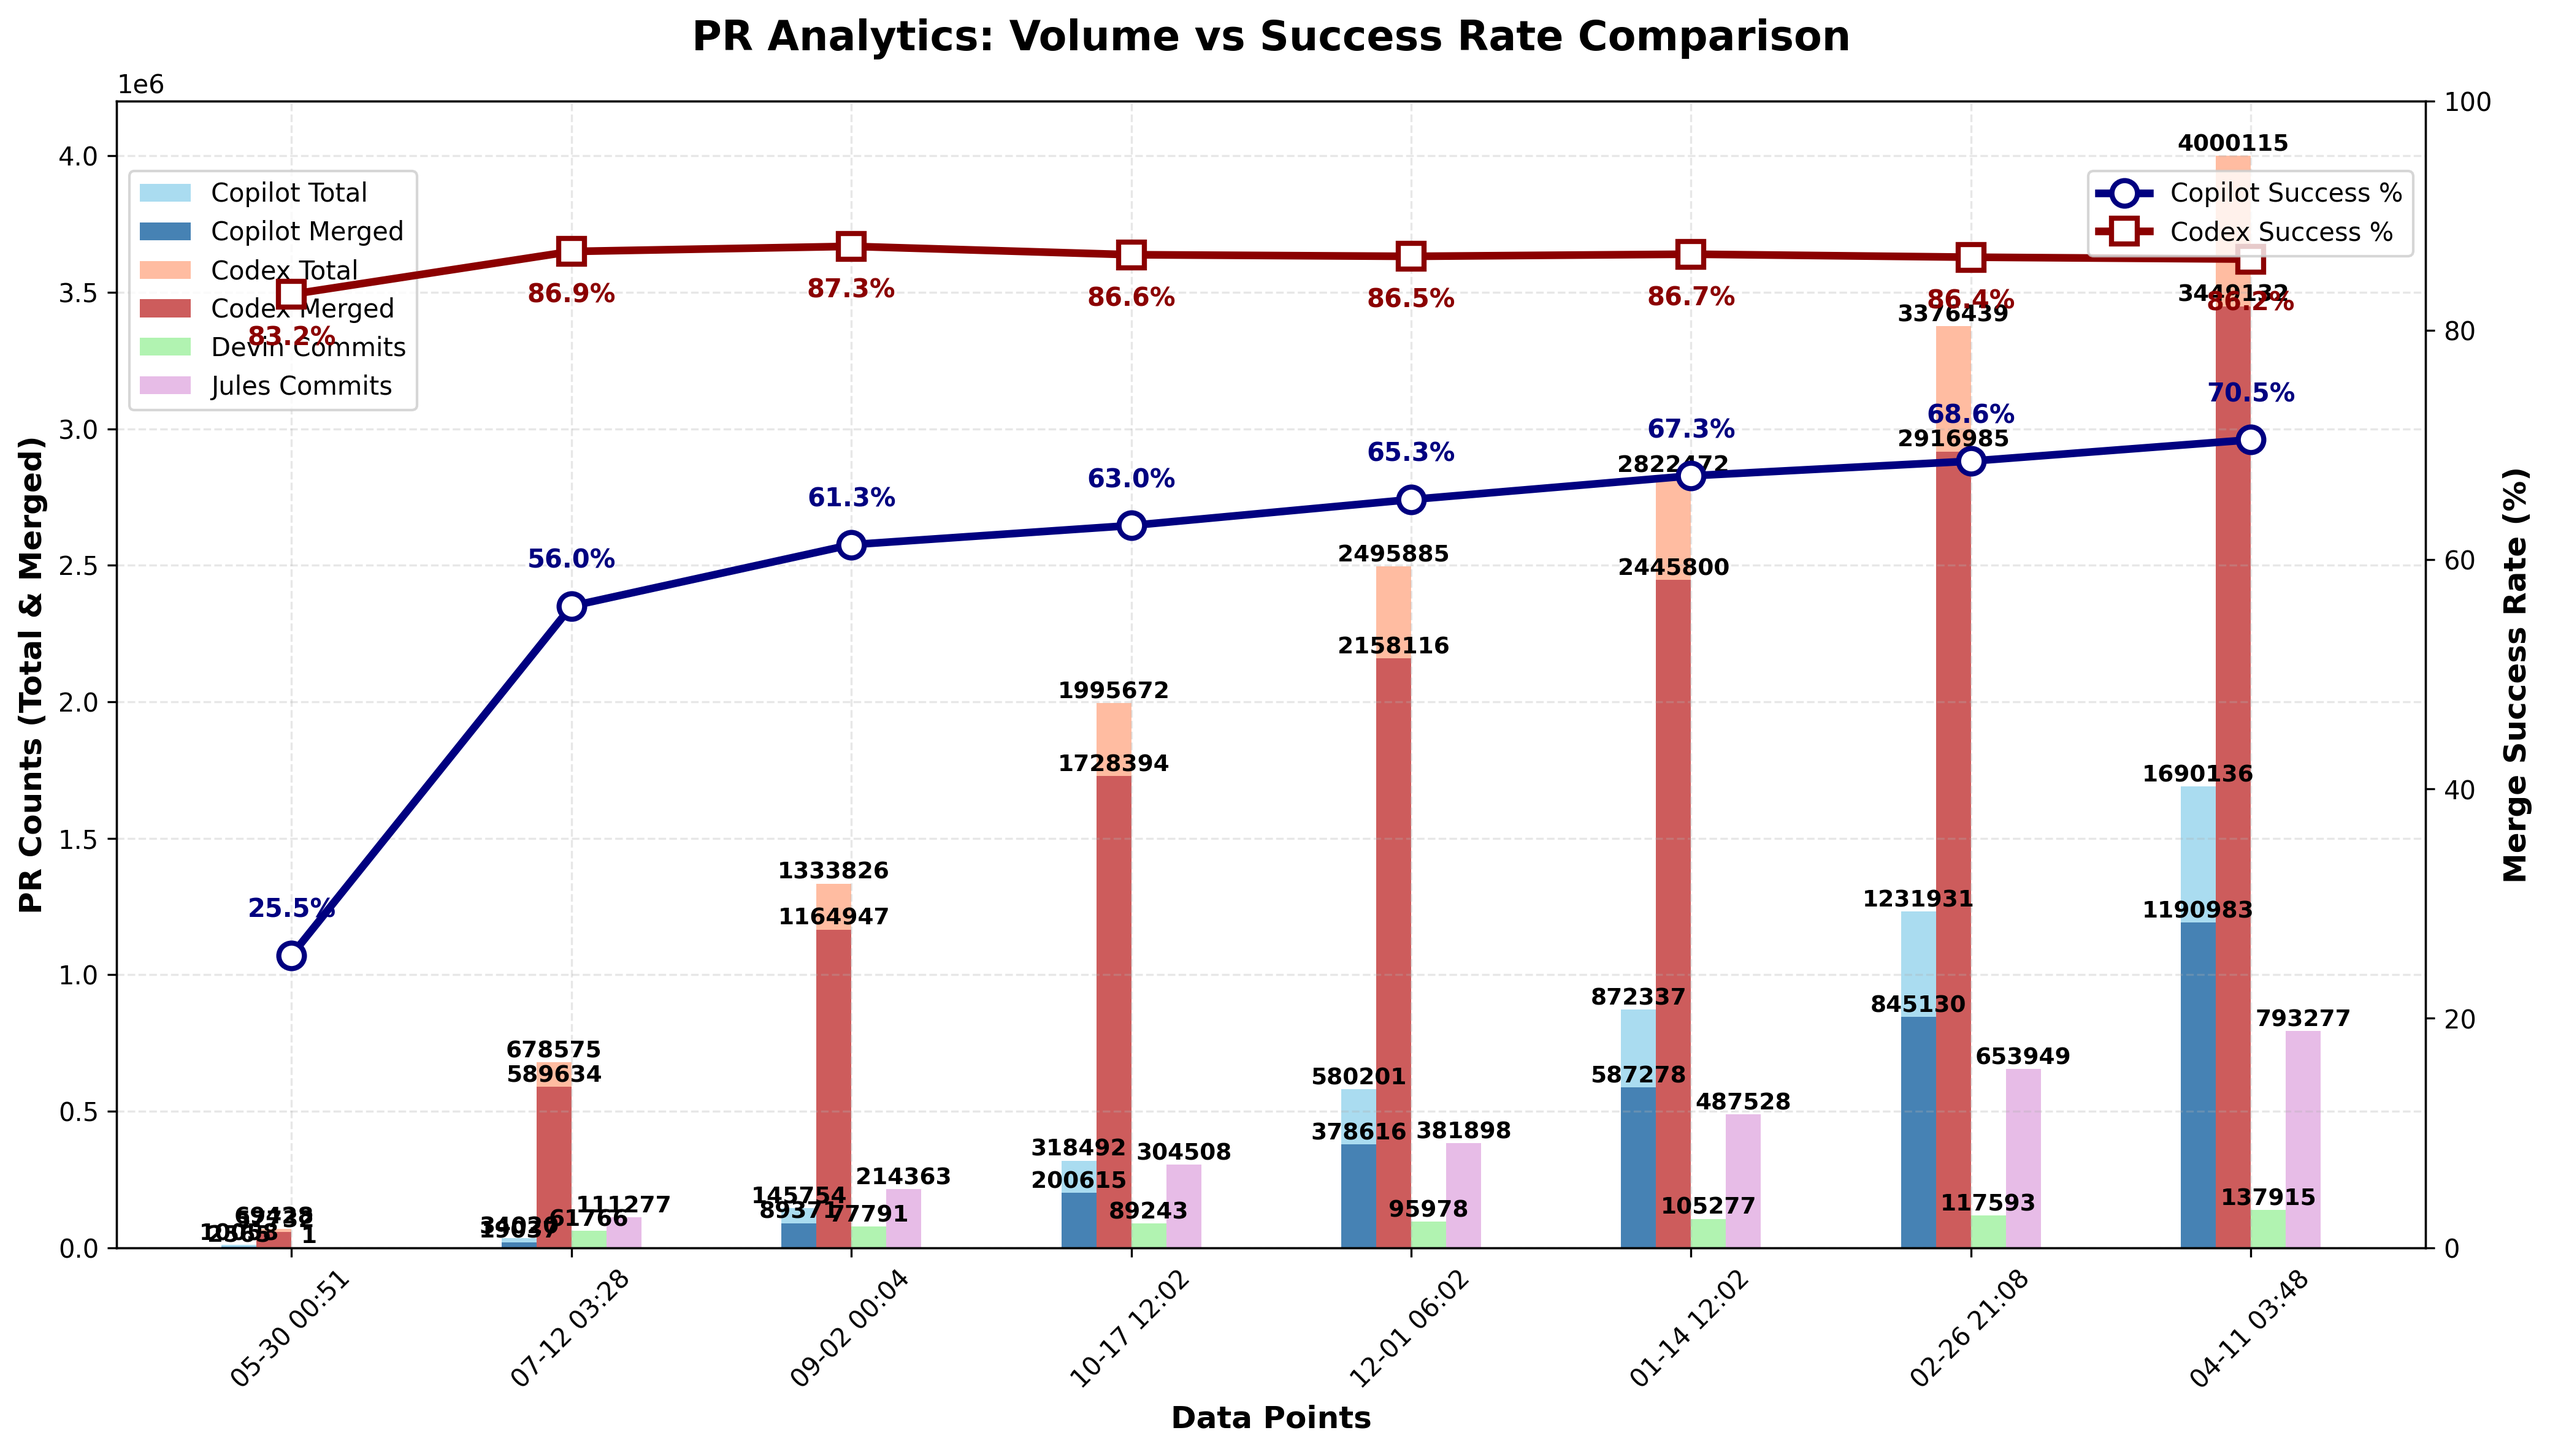
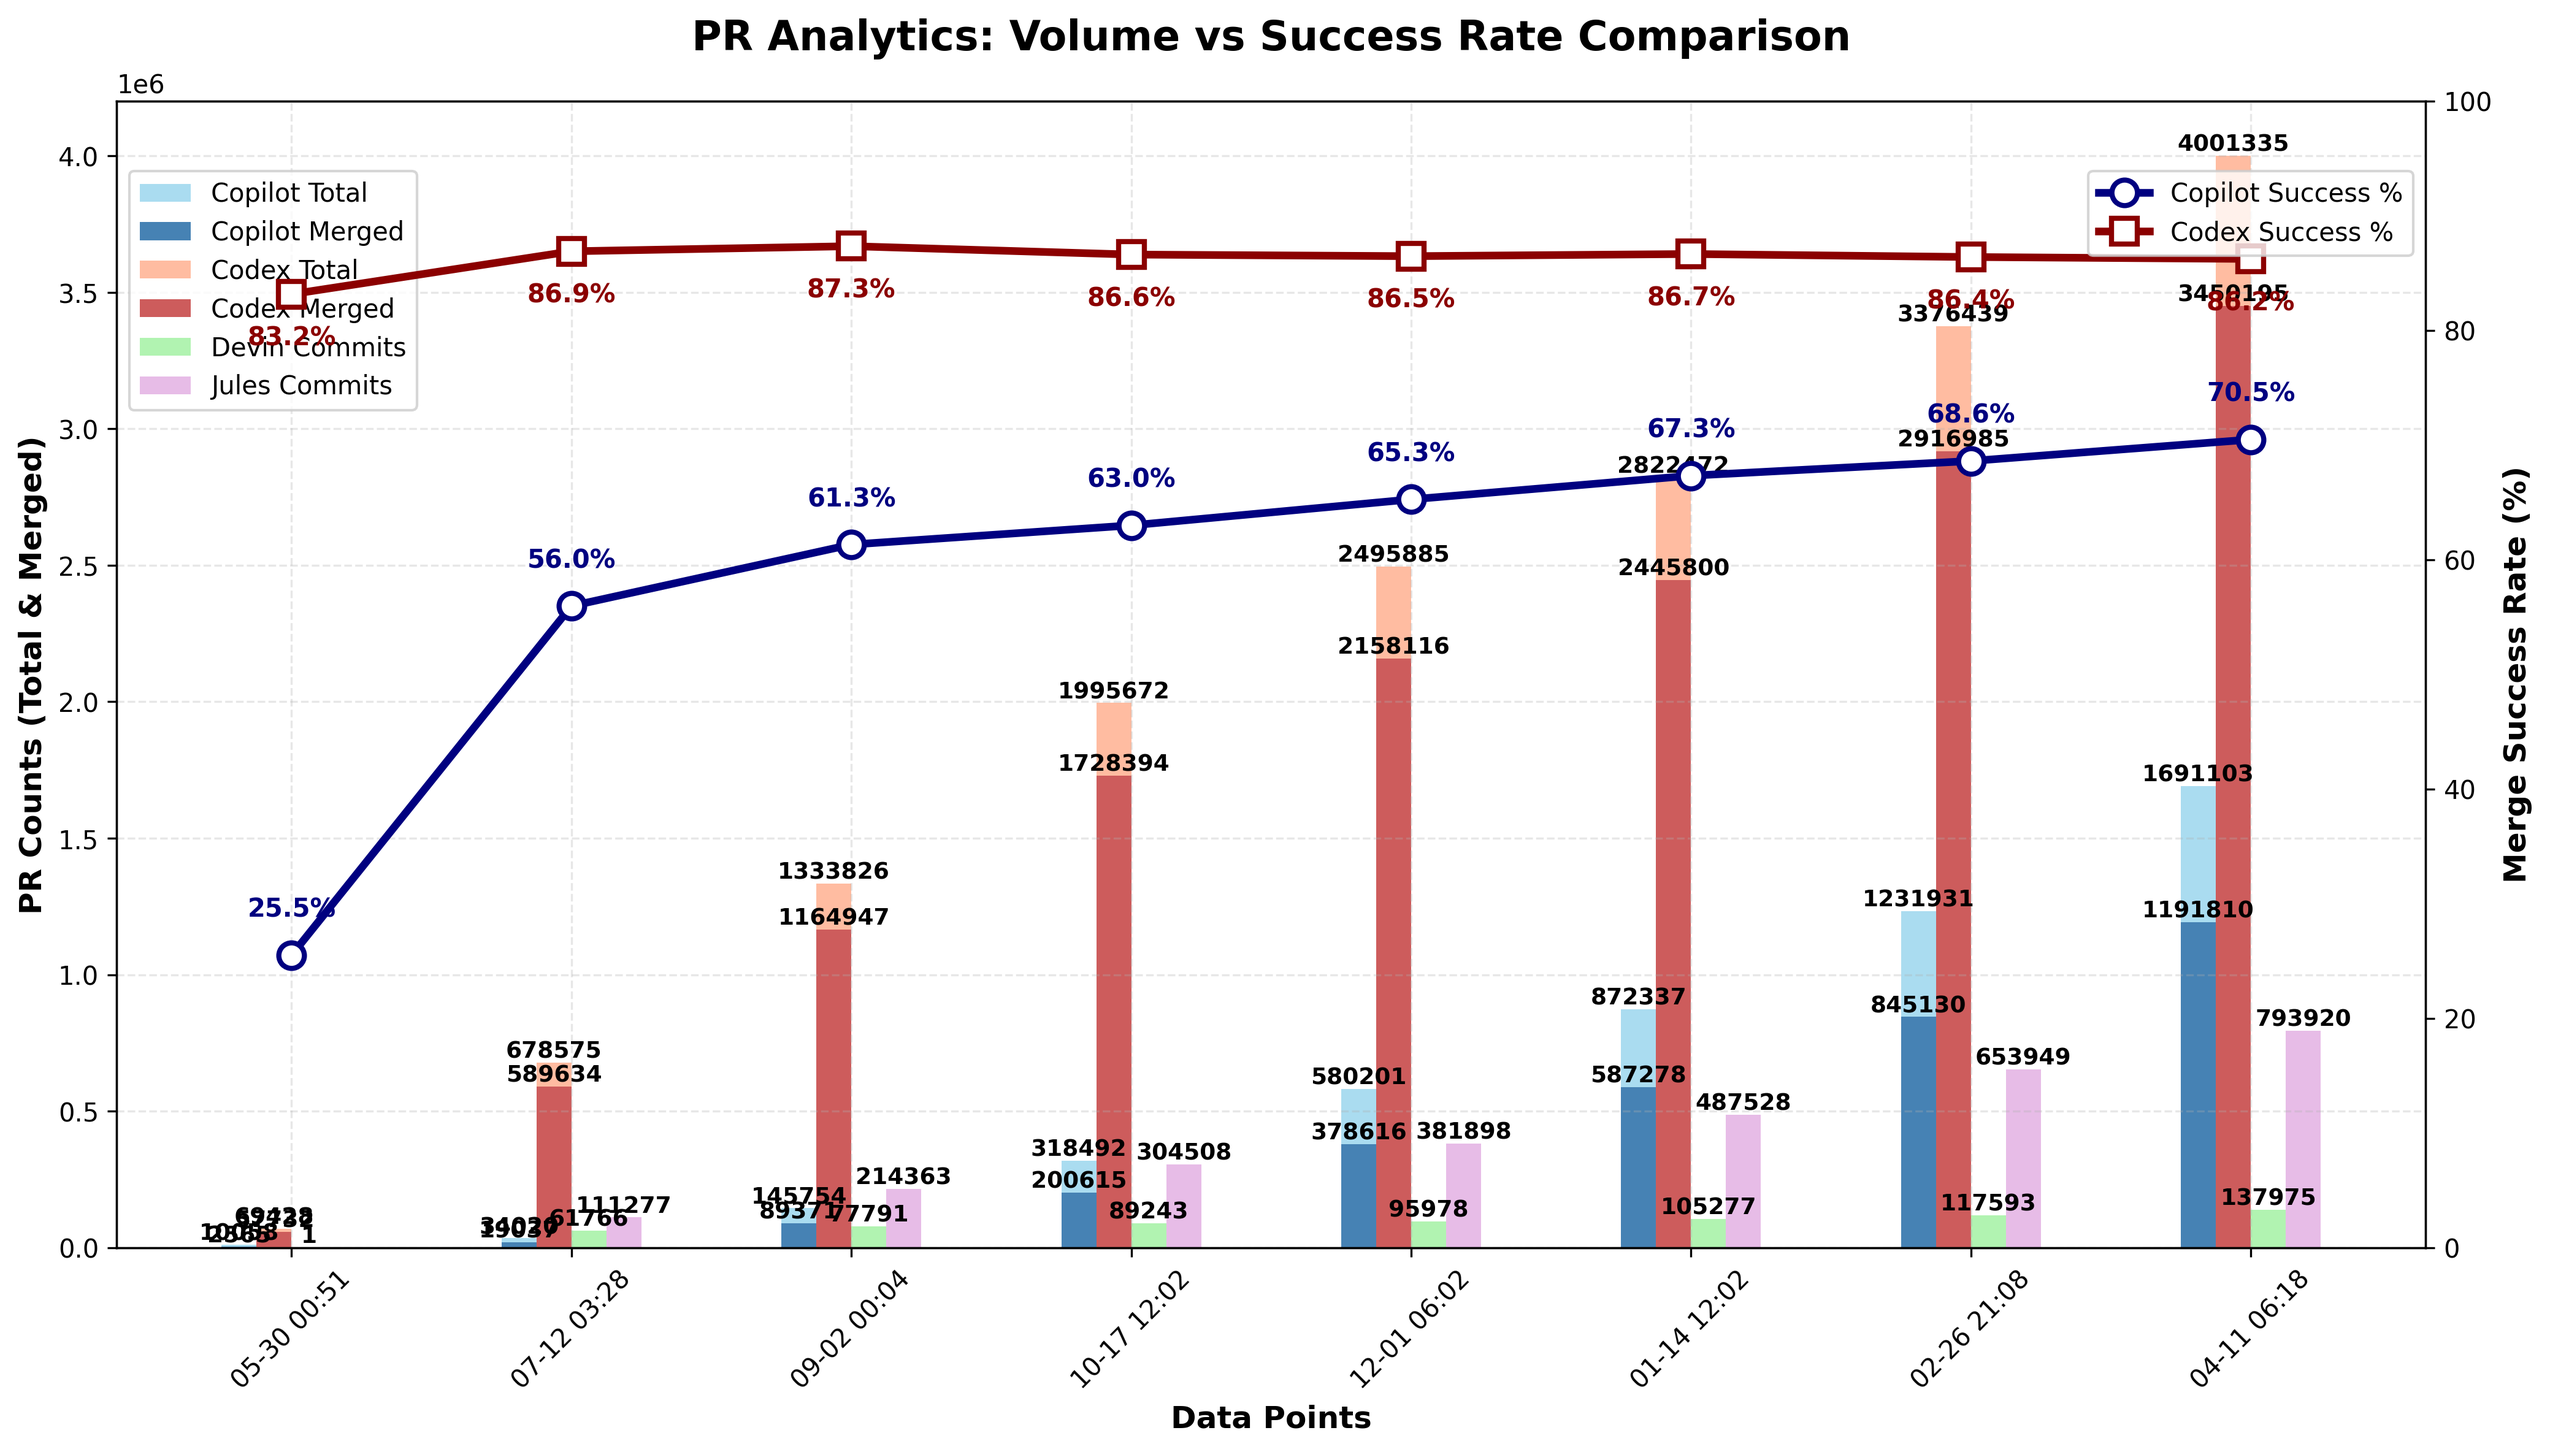
chore: update PR‑approval chart

diff --git a/docs/index.html b/docs/index.html
@@ -2456,6 +2456,7 @@
                         <td>N/A</td>
                         <td>N/A</td>
                         <td>N/A</td>
+                        <td>N/A</td>
                     </tr>
                     <tr>
                         <td>Codex</td>
@@ -4870,27 +4871,28 @@
                         <td>N/A</td>
                         <td>N/A</td>
                         <td>N/A</td>
+                        <td>N/A</td>
                     </tr>
                 <tr>
                         <td>Devin</td>
                         <td>N/A</td>
                         <td>N/A</td>
                         <td>N/A</td>
-                        <td>137,915</td>
+                        <td>137,975</td>
                     </tr>
                     <tr>
                         <td>Jules</td>
                         <td>N/A</td>
                         <td>N/A</td>
                         <td>N/A</td>
-                        <td>793,277</td>
+                        <td>793,920</td>
                     </tr>
                     </tbody>
             </table>
         </section>
 
         <footer>
-            <p>Last updated: <span id="last-updated">April 11, 2026 03:48 UTC</span></p>
+            <p>Last updated: <span id="last-updated">April 11, 2026 06:18 UTC</span></p>
             <p><a href="https://github.com/aavetis/ai-pr-watcher">View on GitHub</a></p>
         </footer>
     </div>

diff --git a/README.md b/README.md
@@ -19,7 +19,7 @@ Explore the GitHub search queries used:
 
 | Service | Total PRs | Merged PRs | Merge Rate | Total Commits |
 | ------- | --------- | ---------- | ---------- | ------------- |
-| Copilot | 1,690,136 | 1,190,983 | 70.47% | N/A           |
-| Codex   | 4,000,115 | 3,449,132 | 86.23% | N/A           |
-| Devin   | N/A       | N/A        | N/A        | 137,915 |
-| Jules   | N/A       | N/A        | N/A        | 793,277 |
+| Copilot | 1,691,103 | 1,191,810 | 70.48% | N/A           |
+| Codex   | 4,001,335 | 3,450,195 | 86.23% | N/A           |
+| Devin   | N/A       | N/A        | N/A        | 137,975 |
+| Jules   | N/A       | N/A        | N/A        | 793,920 |
